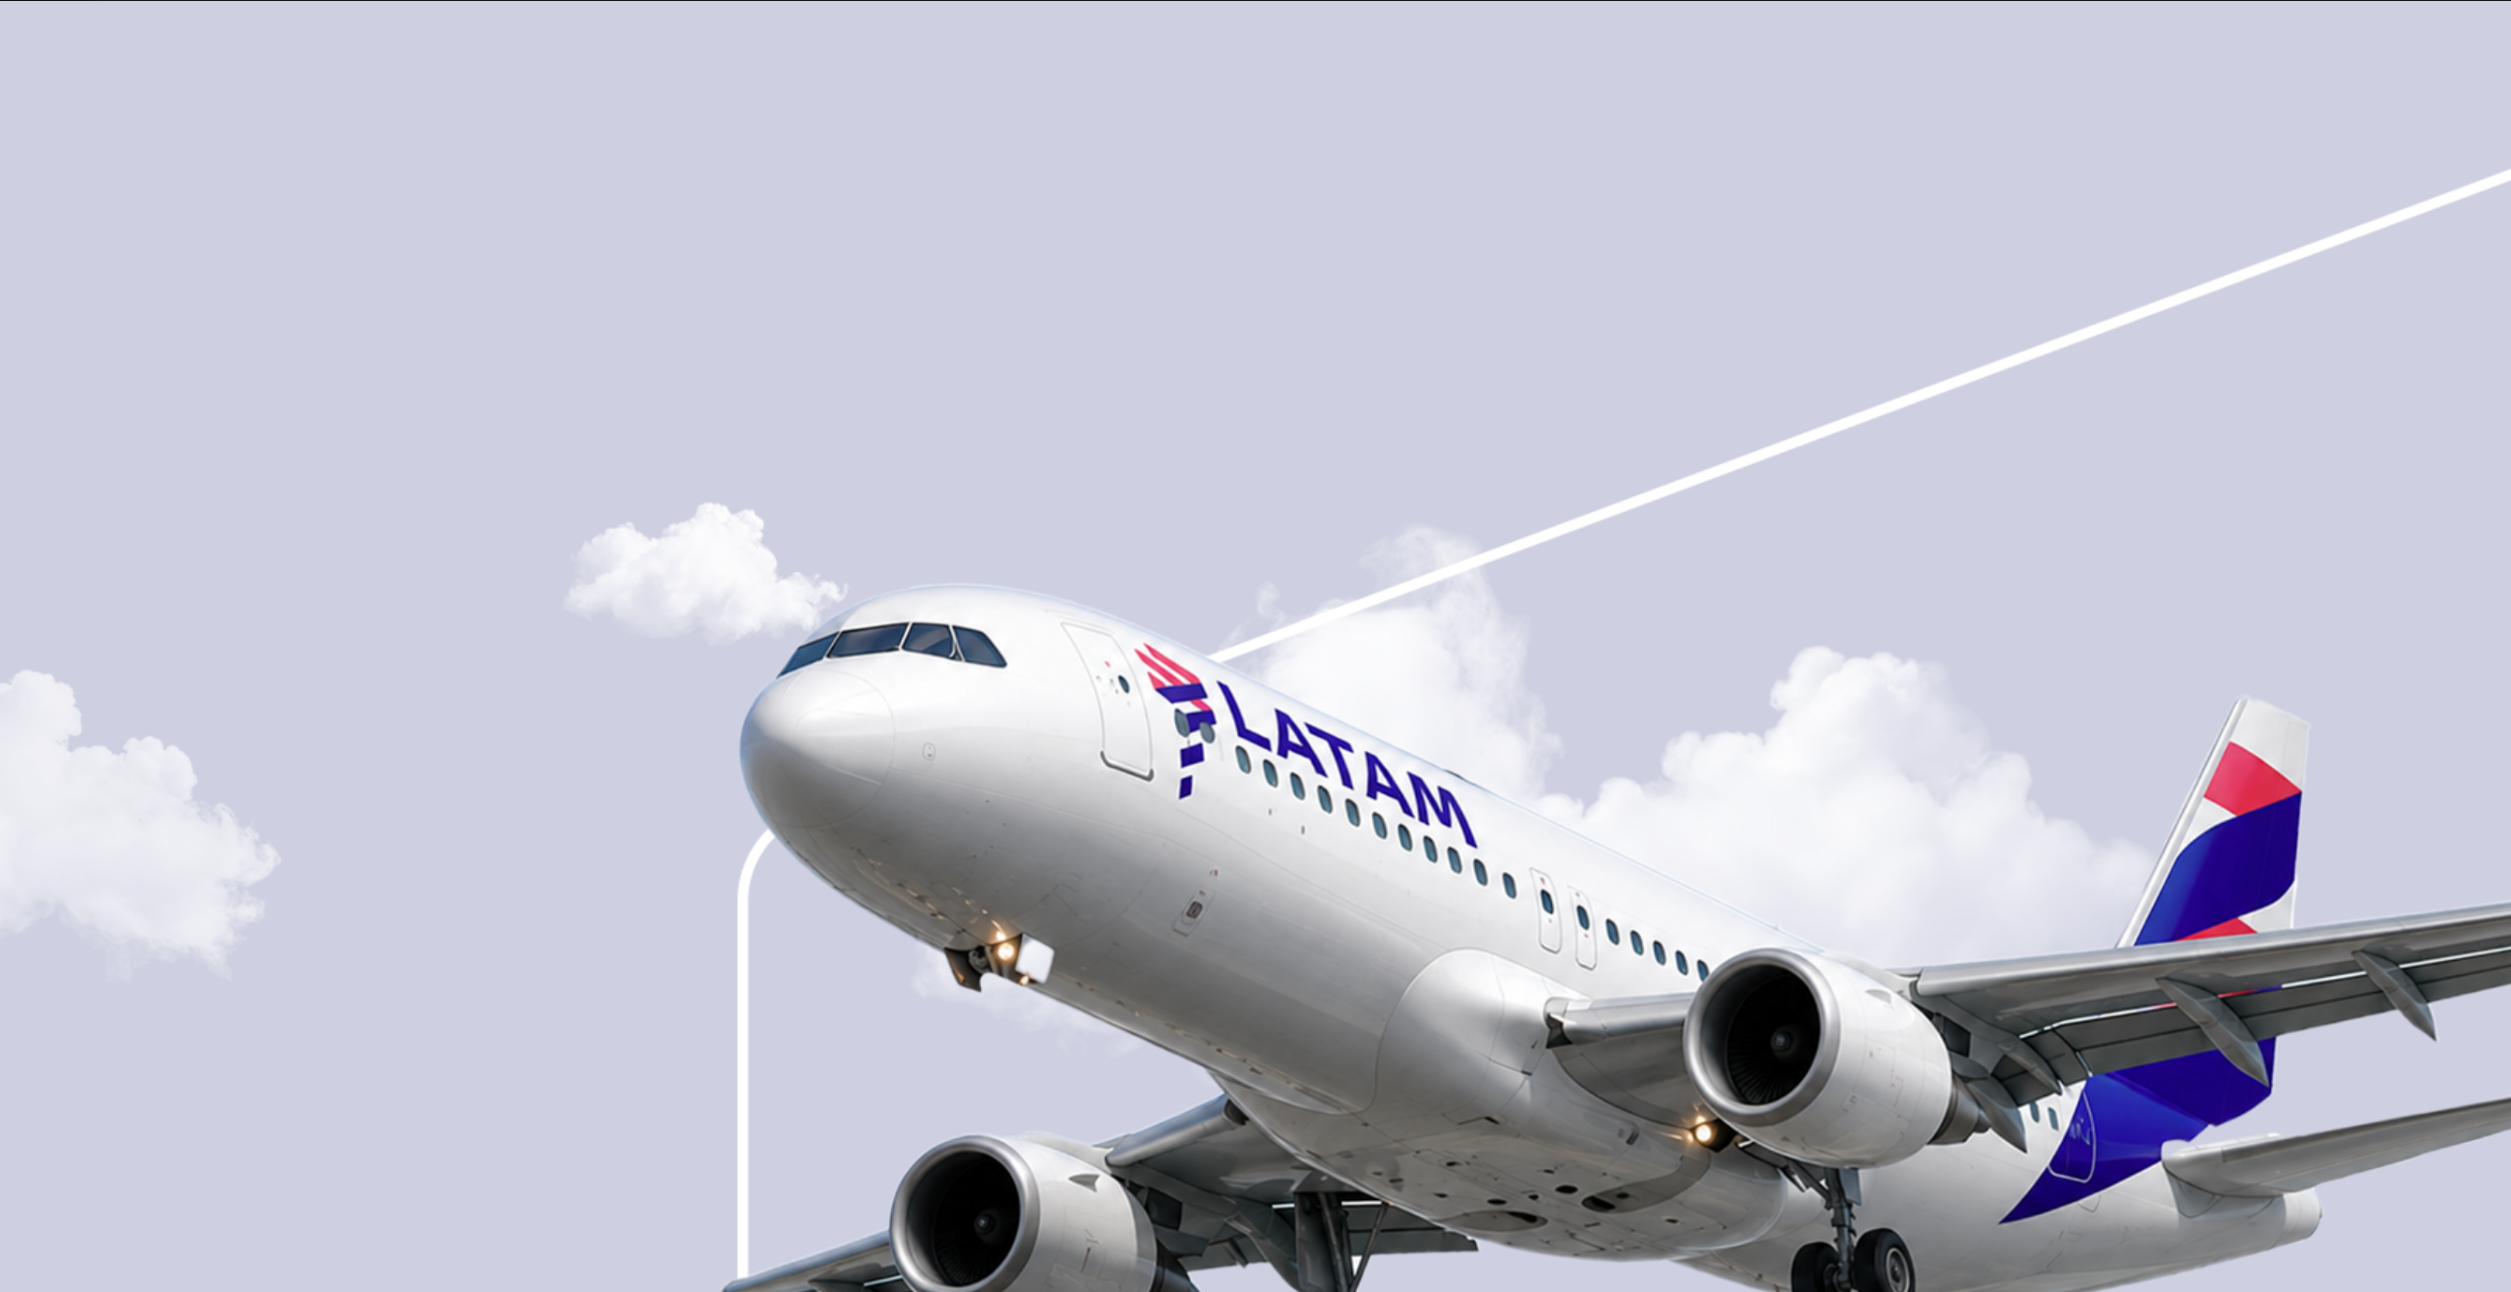
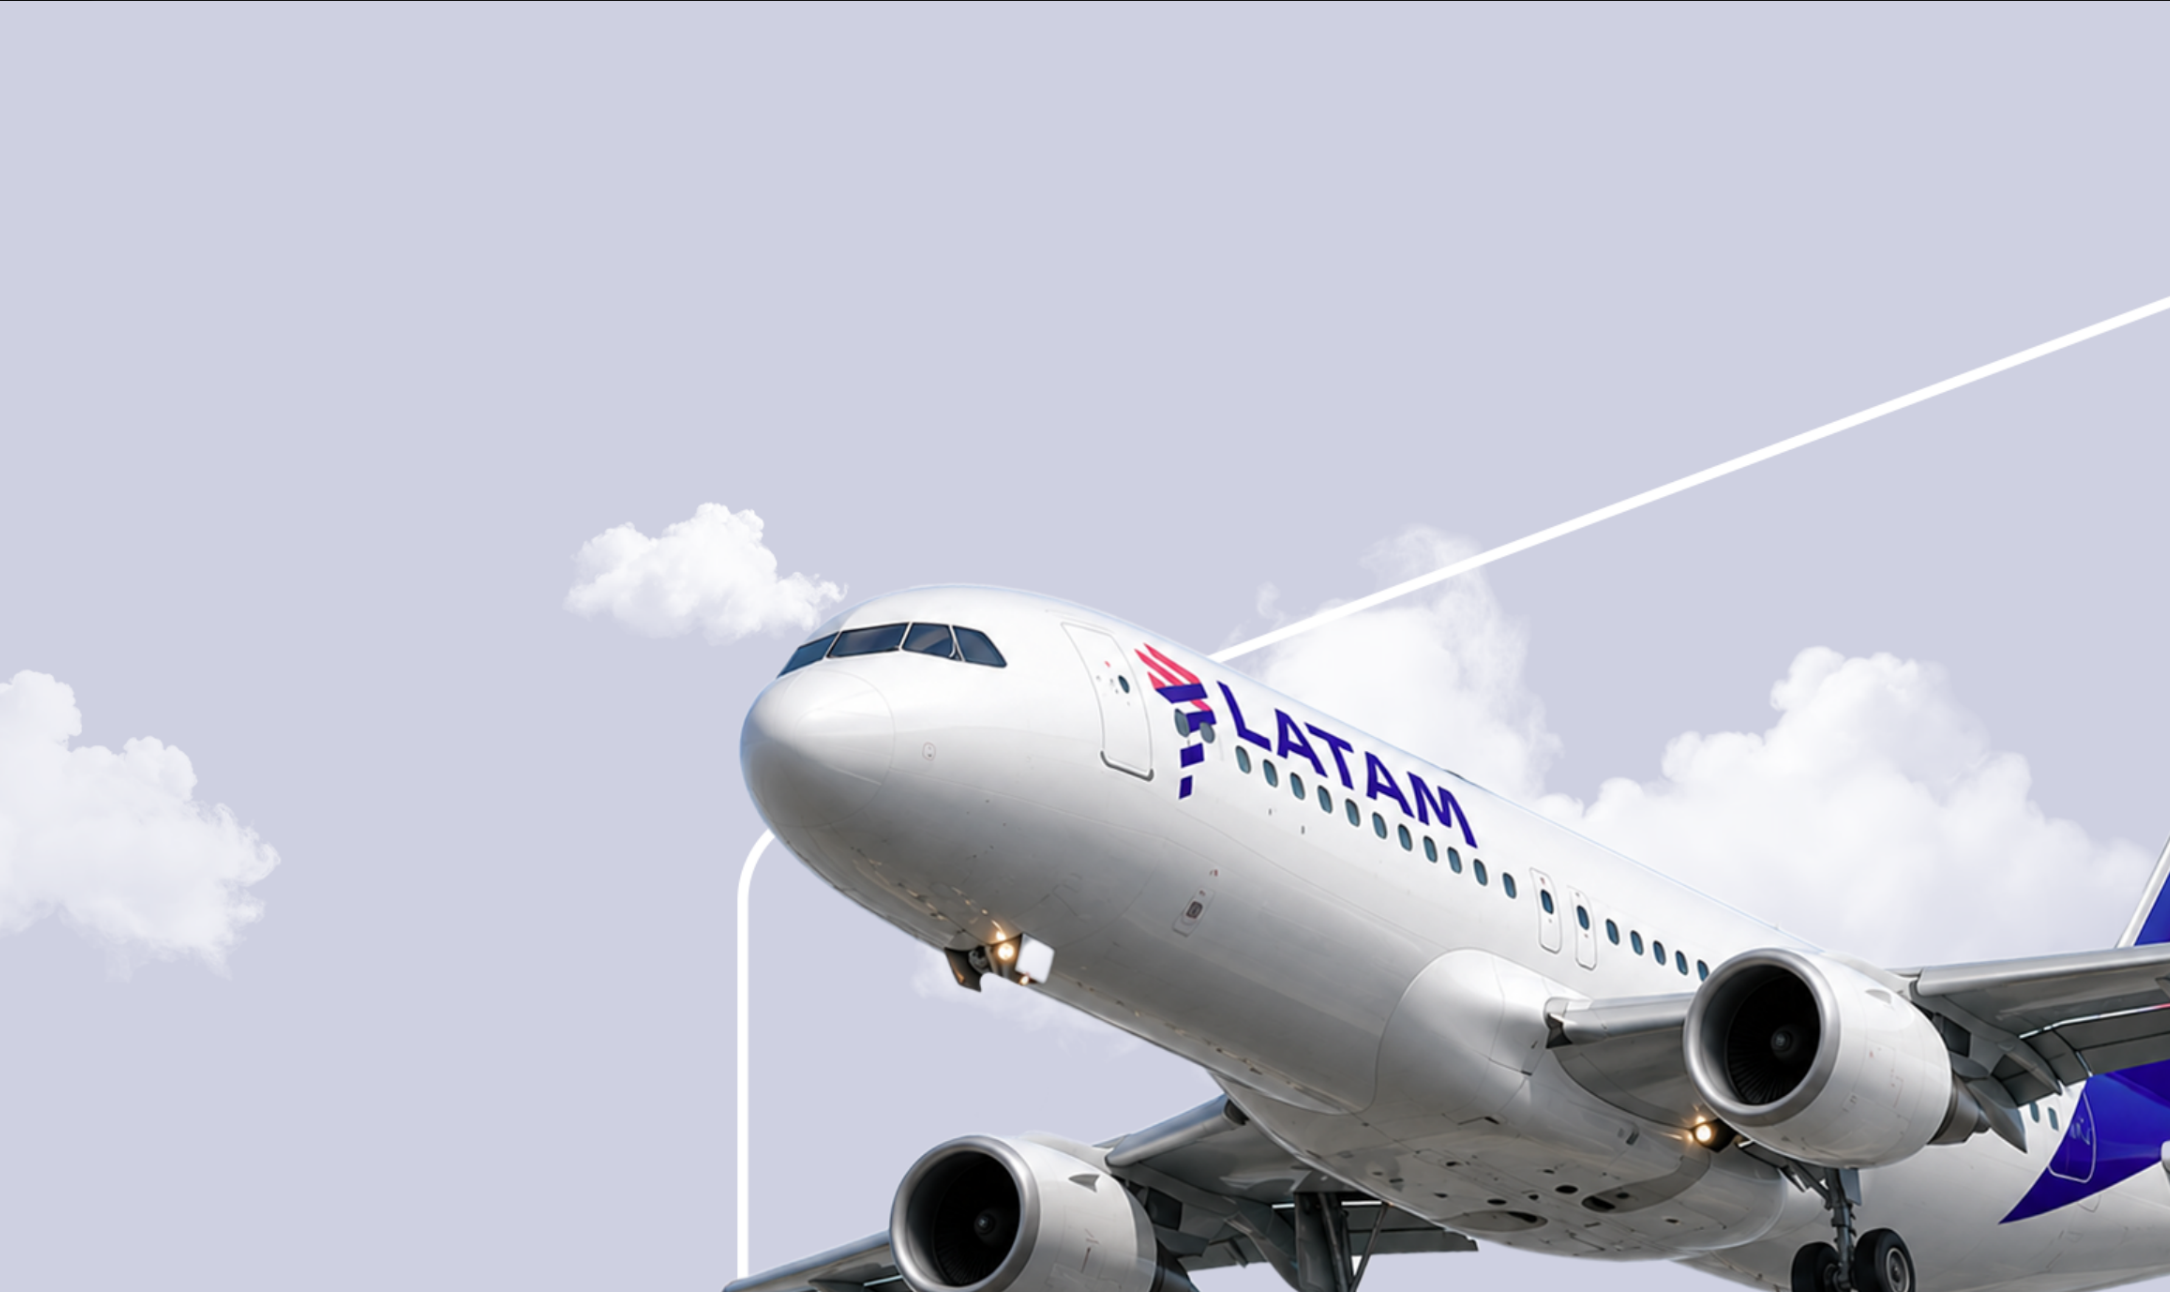
moviendo imagen hero

diff --git a/src/pages/Home.jsx b/src/pages/Home.jsx
@@ -52,7 +52,7 @@ export default function Home() {
       <div className="hero-vh flex flex-col">
         <section className="relative isolate flex flex-[4] min-h-[260px] flex-col items-center justify-between px-5 pb-5 pt-9">
           <div
-            className="absolute inset-0 -z-20 bg-cover bg-[center_top_20%] sm:bg-[center_62%]"
+            className="absolute inset-0 -z-20 bg-cover bg-[center_top_20%] sm:bg-[center_70%]"
             style={{ backgroundImage: `url('${import.meta.env.BASE_URL}img/hero.png')` }}
           />
           <div className="absolute inset-0 -z-10 bg-gradient-to-br from-latam-profunda/30" />
